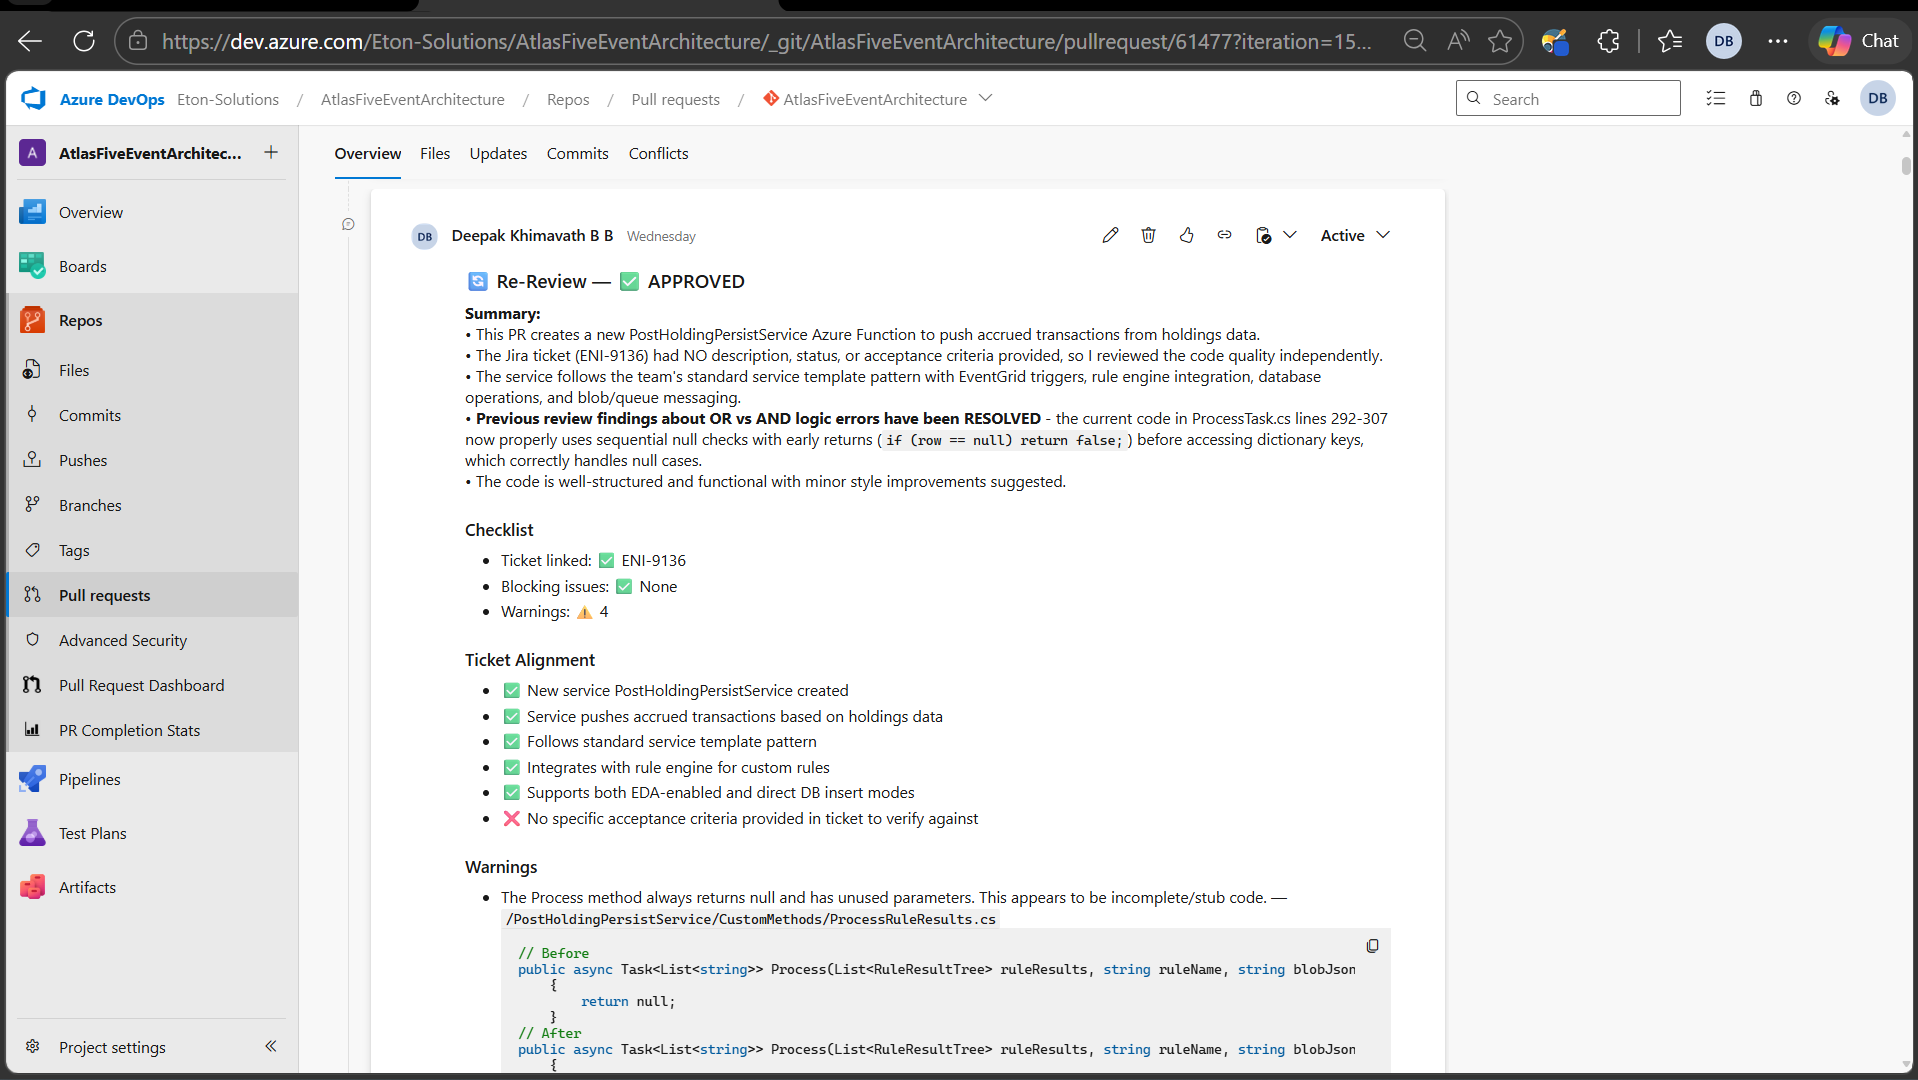
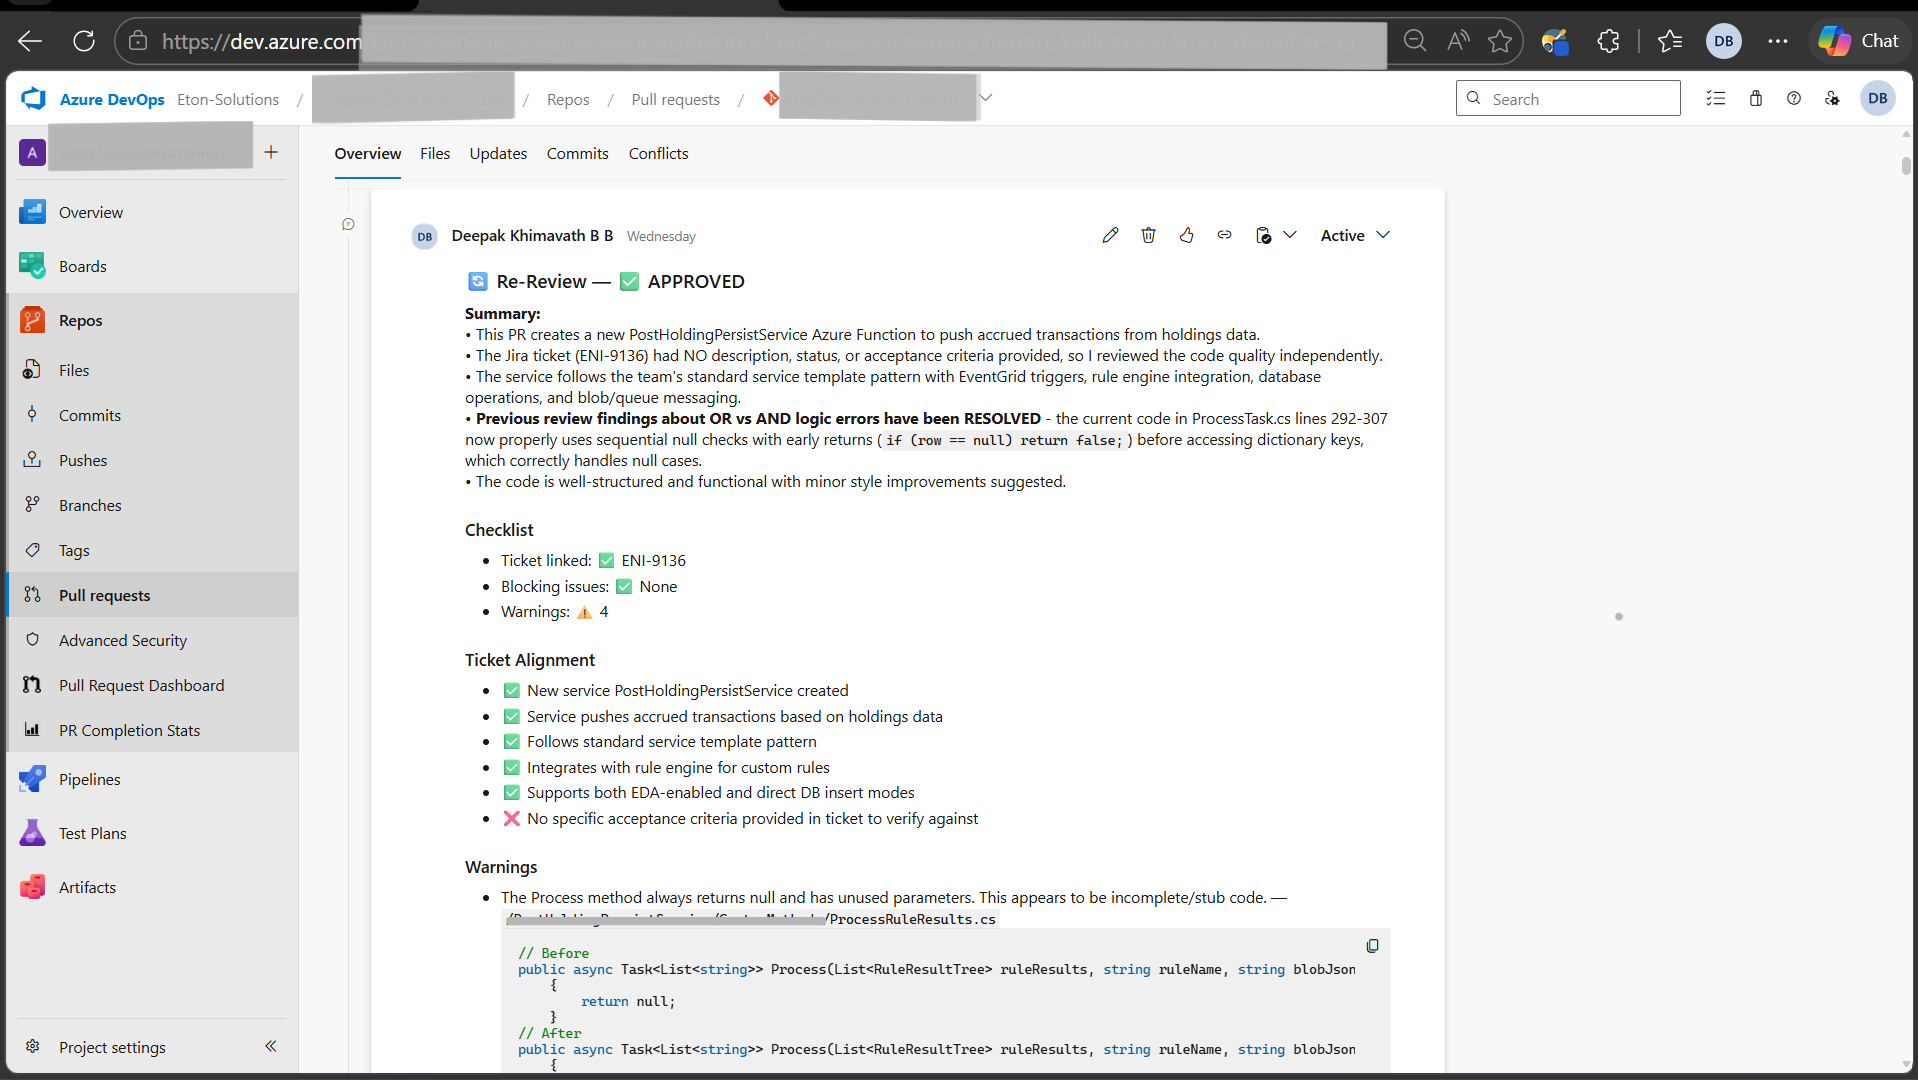
Polish portfolio proof and AI interaction

Changed region(s): [[0.1538, 0.0, 0.7383, 0.1222], [0.0, 0.0917, 0.1538, 0.1833], [0.2769, 0.825, 0.4307, 0.8556]]

diff --git a/index.html b/index.html
@@ -4,6 +4,16 @@
 <meta charset="UTF-8"/>
 <meta name="viewport" content="width=device-width, initial-scale=1.0"/>
 <title>Deepak Khimavath — AI Platform Engineer</title>
+<meta name="description" content="Deepak Khimavath — AI Platform Engineer building production AI developer tooling, agentic systems, and event-driven FinTech infrastructure."/>
+<meta name="theme-color" content="#05080F"/>
+<meta property="og:type" content="website"/>
+<meta property="og:title" content="Deepak Khimavath — AI Platform Engineer"/>
+<meta property="og:description" content="Production AI developer tooling, agentic systems, microservices ownership, and event-driven platform impact."/>
+<meta property="og:image" content="https://i.postimg.cc/qM4sF288/deepakkhimavathh.png"/>
+<meta name="twitter:card" content="summary_large_image"/>
+<meta name="twitter:title" content="Deepak Khimavath — AI Platform Engineer"/>
+<meta name="twitter:description" content="Production AI developer tooling, agentic systems, and event-driven FinTech infrastructure."/>
+<meta name="twitter:image" content="https://i.postimg.cc/qM4sF288/deepakkhimavathh.png"/>
 <link href="https://fonts.googleapis.com/css2?family=Clash+Display:wght@400;500;600;700&family=Instrument+Sans:ital,wght@0,300;0,400;0,500;1,300&family=JetBrains+Mono:wght@300;400;500&display=swap" rel="stylesheet"/>
 <style>
 /* ── DESIGN SYSTEM ────────────────────────────────────────────────── */
@@ -86,6 +96,22 @@ nav.scrolled{padding:14px 64px;}
   transition:background .3s,color .3s!important;
 }
 .nav-cta:hover{background:var(--cyan)!important;color:var(--bg)!important;}
+.magic-ai{
+  position:relative;padding:8px 14px;border-radius:999px;
+  color:var(--cyan)!important;isolation:isolate;overflow:hidden;
+}
+.magic-ai::before{
+  content:'';position:absolute;inset:0;border-radius:inherit;padding:1px;
+  background:conic-gradient(from var(--spin,0deg),transparent 0 18%,var(--cyan),var(--violet),var(--blue),transparent 82% 100%);
+  -webkit-mask:linear-gradient(#000 0 0) content-box,linear-gradient(#000 0 0);
+  -webkit-mask-composite:xor;mask-composite:exclude;
+  animation:magic-spin 3.6s linear infinite;opacity:.85;
+}
+.magic-ai::after{
+  content:'';position:absolute;inset:1px;border-radius:inherit;
+  background:rgba(0,229,255,.045);z-index:-1;
+}
+@keyframes magic-spin{to{--spin:360deg;}}
 .nav-toggle{
   display:none;width:38px;height:38px;border:1px solid var(--border);
   border-radius:6px;background:rgba(13,21,38,.8);color:var(--ink);
@@ -310,6 +336,21 @@ section{padding:110px 64px;position:relative;}
 .ac-big{font-family:var(--font-d);font-weight:700;font-size:2.6rem;line-height:1;background:linear-gradient(135deg,var(--cyan),var(--blue));-webkit-background-clip:text;-webkit-text-fill-color:transparent;background-clip:text;}
 .ac-lbl{color:var(--muted);font-size:.84rem;margin-top:5px;}
 .ac-sub{color:var(--ink);font-size:.78rem;margin-top:3px;font-family:var(--font-m);}
+
+/* ── PROOF ── */
+.proof-band{
+  display:grid;grid-template-columns:repeat(5,minmax(0,1fr));
+  gap:1px;margin:72px auto 0;max-width:1280px;
+  border:1px solid var(--border);background:var(--border2);border-radius:12px;overflow:hidden;
+}
+.proof-item{background:var(--bg3);padding:20px 18px;min-height:116px;}
+.proof-num{
+  font-family:var(--font-d);font-weight:700;font-size:1.8rem;line-height:1;
+  background:linear-gradient(135deg,var(--cyan),var(--blue));
+  -webkit-background-clip:text;-webkit-text-fill-color:transparent;background-clip:text;
+}
+.proof-label{font-family:var(--font-m);font-size:.62rem;color:var(--cyan);text-transform:uppercase;letter-spacing:.1em;margin-top:9px;}
+.proof-text{font-size:.76rem;color:var(--muted);line-height:1.55;margin-top:6px;}
  
 /* ── EXPERIENCE ── */
 #experience{background:var(--bg);}
@@ -416,6 +457,20 @@ section{padding:110px 64px;position:relative;}
 .case-v{font-size:.78rem;line-height:1.55;color:var(--muted);}
 .case-v strong{color:var(--ink);font-weight:500;}
 
+.arch-grid{display:grid;grid-template-columns:repeat(2,minmax(0,1fr));gap:18px;margin-top:64px;}
+.arch-card{
+  background:var(--card);border:1px solid var(--border);border-radius:12px;
+  padding:24px;position:relative;overflow:hidden;
+}
+.arch-title{font-family:var(--font-d);font-weight:600;font-size:1rem;color:var(--ink);margin-bottom:14px;}
+.arch-flow{display:flex;flex-wrap:wrap;gap:8px;align-items:center;}
+.arch-node{
+  padding:7px 10px;border:1px solid rgba(0,229,255,.16);border-radius:6px;
+  background:rgba(0,229,255,.045);font-family:var(--font-m);font-size:.66rem;color:var(--muted);
+}
+.arch-arrow{font-family:var(--font-m);color:var(--cyan);font-size:.72rem;}
+.arch-note{font-size:.78rem;color:var(--muted);line-height:1.65;margin-top:14px;}
+
 /* ── PROJECT MEDIA (featured cards) ── */
 .proj-card.feat .proj-card-inner{
   display:grid;
@@ -440,6 +495,16 @@ section{padding:110px 64px;position:relative;}
     0 0 40px rgba(0,229,255,.06);
   transition:box-shadow .4s,border-color .3s;
   border:1px solid rgba(255,255,255,.06);
+}
+.proj-media-frame::before{
+  content:'';position:absolute;inset:0;border-radius:inherit;padding:1px;z-index:4;
+  background:conic-gradient(from var(--spin,0deg),transparent 0 22%,rgba(0,229,255,.9),rgba(129,140,248,.75),rgba(59,130,246,.8),transparent 78% 100%);
+  -webkit-mask:linear-gradient(#000 0 0) content-box,linear-gradient(#000 0 0);
+  -webkit-mask-composite:xor;mask-composite:exclude;
+  opacity:0;pointer-events:none;transition:opacity .25s ease;
+}
+.proj-media-frame:hover::before,.proj-media-frame:focus-within::before{
+  opacity:.9;animation:magic-spin 4.8s linear infinite;
 }
 .proj-media-frame.has-portrait{min-height:700px;}
 .proj-media-frame.has-portrait .proj-media-dots{bottom:14px;}
@@ -769,7 +834,15 @@ footer{
   .proj-card.feat{grid-column:span 1;}
   .sk-grid{grid-template-columns:1fr;}
   .contact-grid{grid-template-columns:1fr;}
+  .proof-band{grid-template-columns:1fr 1fr;}
   footer{flex-direction:column;gap:10px;text-align:center;}
+}
+@media(max-width:600px){.proof-band{grid-template-columns:1fr;}}
+@media(max-width:960px){.arch-grid{grid-template-columns:1fr;}}
+@media(prefers-reduced-motion:reduce){
+  *,*::before,*::after{animation-duration:.01ms!important;animation-iteration-count:1!important;transition-duration:.01ms!important;scroll-behavior:auto!important;}
+  body{cursor:auto;}
+  .cursor,.cursor-ring{display:none;}
 }
 
 /* ── FLOATING CHAT WIDGET ── */
@@ -973,7 +1046,7 @@ footer{
     <li><a href="#experience">Experience</a></li>
     <li><a href="#projects">Projects</a></li>
     <li><a href="#skills">Skills</a></li>
-    <li><a href="javascript:void(0)" onclick="toggleChat()">Ask AI</a></li>
+    <li><a href="javascript:void(0)" onclick="toggleChat()" class="magic-ai">Ask AI</a></li>
     <li><a href="#contact" class="nav-cta">Contact</a></li>
   </ul>
 </nav>
@@ -1188,6 +1261,24 @@ footer{
     </div>
   </div>
 </section>
+
+<!-- PROOF -->
+<section id="proof">
+  <div class="sec-inner">
+    <div class="rv">
+      <p class="sec-chip">Proof signals</p>
+      <h2 class="sec-h">Delivered work, not demos.</h2>
+      <p class="sec-sub">Sanitized, recruiter-safe signals from production engineering and internal AI platform work.</p>
+    </div>
+    <div class="proof-band rv d1">
+      <div class="proof-item"><div class="proof-num">150+</div><div class="proof-label">PRs Reviewed</div><div class="proof-text">Production Azure DevOps review agent in org-wide use.</div></div>
+      <div class="proof-item"><div class="proof-num">20+</div><div class="proof-label">Internal Users</div><div class="proof-text">Engineering/product users on Eton Dev AI workflows.</div></div>
+      <div class="proof-item"><div class="proof-num">98%</div><div class="proof-label">Latency Reduced</div><div class="proof-text">EDA bottleneck reduced from 15-20 hours to under 15 minutes.</div></div>
+      <div class="proof-item"><div class="proof-num">3</div><div class="proof-label">Owned Services</div><div class="proof-text">Production financial microservices owned end-to-end.</div></div>
+      <div class="proof-item"><div class="proof-num">11</div><div class="proof-label">Indexed Services</div><div class="proof-text">Active R&D code intelligence pipeline over service context.</div></div>
+    </div>
+  </div>
+</section>
  
 <!-- PROJECTS -->
 <section id="projects">
@@ -1222,8 +1313,8 @@ footer{
           <div class="proj-card-media">
             <div class="proj-media-frame">
               <!-- 🔧 PR Review Agent screenshots -->
-              <img class="proj-media-img active" src="assets/images/pr-review1.png" alt="PR Review Agent dashboard"/>
-              <img class="proj-media-img" src="assets/images/pr-review2.png" alt="PR Review Agent review output"/>
+              <img class="proj-media-img active" src="assets/images/pr-review1.png" alt="PR Review Agent dashboard" loading="lazy"/>
+              <img class="proj-media-img" src="assets/images/pr-review2.png" alt="PR Review Agent review output" loading="lazy"/>
               <div class="proj-media-placeholder" id="prPlaceholder">
                 <svg width="48" height="48" viewBox="0 0 48 48" fill="none"><rect x="8" y="6" width="32" height="36" rx="4" stroke="#3A4A60" stroke-width="2"/><path d="M16 18h16M16 24h12M16 30h8" stroke="#3A4A60" stroke-width="2" stroke-linecap="round"/></svg>
                 <span>Add PR Review screenshots</span>
@@ -1262,10 +1353,10 @@ footer{
           <div class="proj-card-media">
             <div class="proj-media-frame">
               <!-- 🔧 Eton Dev VSIX screenshots -->
-              <img class="proj-media-img active" src="assets/images/vs-extension.png" alt="Eton Dev VS Extension main view"/>
-              <img class="proj-media-img" src="assets/images/visualstudio_1st.png" alt="Eton Dev Visual Studio integration"/>
-              <img class="proj-media-img" src="assets/images/orbit.png" alt="Eton Dev Orbit feature"/>
-              <img class="proj-media-img" src="assets/images/orbit_investigation.png" alt="Eton Dev investigation tool"/>
+              <img class="proj-media-img active" src="assets/images/vs-extension.png" alt="Eton Dev VS Extension main view" loading="lazy"/>
+              <img class="proj-media-img" src="assets/images/visualstudio_1st.png" alt="Eton Dev Visual Studio integration" loading="lazy"/>
+              <img class="proj-media-img" src="assets/images/orbit.png" alt="Eton Dev Orbit feature" loading="lazy"/>
+              <img class="proj-media-img" src="assets/images/orbit_investigation.png" alt="Eton Dev investigation tool" loading="lazy"/>
               <div class="proj-media-placeholder" id="etonPlaceholder">
                 <svg width="48" height="48" viewBox="0 0 48 48" fill="none"><rect x="6" y="6" width="36" height="36" rx="4" stroke="#3A4A60" stroke-width="2"/><path d="M16 16l8 8-8 8" stroke="#3A4A60" stroke-width="2" stroke-linecap="round" stroke-linejoin="round"/></svg>
                 <span>Add VS Extension screenshots</span>
@@ -1307,10 +1398,10 @@ footer{
           <div class="proj-card-media">
             <div class="proj-media-frame">
               <!-- 🔧 Eton ARC 6-Agent pipeline screenshots -->
-              <img class="proj-media-img active" src="assets/images/6model-1.png" alt="Eton ARC architecture overview"/>
-              <img class="proj-media-img" src="assets/images/6model-2.png" alt="Eton ARC agent workflow"/>
-              <img class="proj-media-img" src="assets/images/6model-3.png" alt="Eton ARC pipeline details"/>
-              <img class="proj-media-img" src="assets/images/6model-4.png" alt="Eton ARC system diagram"/>
+              <img class="proj-media-img active" src="assets/images/6model-1.png" alt="Eton ARC architecture overview" loading="lazy"/>
+              <img class="proj-media-img" src="assets/images/6model-2.png" alt="Eton ARC agent workflow" loading="lazy"/>
+              <img class="proj-media-img" src="assets/images/6model-3.png" alt="Eton ARC pipeline details" loading="lazy"/>
+              <img class="proj-media-img" src="assets/images/6model-4.png" alt="Eton ARC system diagram" loading="lazy"/>
               <div class="proj-media-placeholder" id="arcPlaceholder">
                 <svg width="48" height="48" viewBox="0 0 48 48" fill="none"><circle cx="24" cy="16" r="6" stroke="#3A4A60" stroke-width="2"/><circle cx="14" cy="32" r="6" stroke="#3A4A60" stroke-width="2"/><circle cx="34" cy="32" r="6" stroke="#3A4A60" stroke-width="2"/><path d="M24 22l-6 8M24 22l6 8" stroke="#3A4A60" stroke-width="2" stroke-linecap="round"/></svg>
                 <span>Add pipeline architecture images</span>
@@ -1371,6 +1462,60 @@ footer{
         </div>
       </div>
  
+    </div>
+  </div>
+</section>
+
+<!-- ARCHITECTURE PATTERNS -->
+<section id="architecture">
+  <div class="sec-inner">
+    <div class="rv">
+      <p class="sec-chip">How I think</p>
+      <h2 class="sec-h">Sanitized architecture patterns</h2>
+      <p class="sec-sub">High-level patterns only. Company internals, client data, service names, repos, endpoints, and proprietary workflows are intentionally omitted.</p>
+    </div>
+    <div class="arch-grid">
+      <div class="arch-card rv d1">
+        <div class="arch-title">Async AI Review Pipeline</div>
+        <div class="arch-flow">
+          <span class="arch-node">Webhook</span><span class="arch-arrow">→</span>
+          <span class="arch-node">Queue</span><span class="arch-arrow">→</span>
+          <span class="arch-node">LLM Review</span><span class="arch-arrow">→</span>
+          <span class="arch-node">PR Feedback</span>
+        </div>
+        <p class="arch-note">Designed to acknowledge source-control events quickly while long-running AI work happens safely in the background.</p>
+      </div>
+      <div class="arch-card rv d2">
+        <div class="arch-title">IDE-Native AI Tooling</div>
+        <div class="arch-flow">
+          <span class="arch-node">VSIX</span><span class="arch-arrow">→</span>
+          <span class="arch-node">Local Backend</span><span class="arch-arrow">→</span>
+          <span class="arch-node">Provider Router</span><span class="arch-arrow">→</span>
+          <span class="arch-node">DevOps APIs</span>
+        </div>
+        <p class="arch-note">Keeps review, debugging, AI chat, auto-fix, and PR workflows inside the developer's existing environment.</p>
+      </div>
+      <div class="arch-card rv d3">
+        <div class="arch-title">Ticket-To-Code Agent Flow</div>
+        <div class="arch-flow">
+          <span class="arch-node">Ticket</span><span class="arch-arrow">→</span>
+          <span class="arch-node">Discovery</span><span class="arch-arrow">→</span>
+          <span class="arch-node">Specialists</span><span class="arch-arrow">→</span>
+          <span class="arch-node">Review Gate</span><span class="arch-arrow">→</span>
+          <span class="arch-node">Execution Plan</span>
+        </div>
+        <p class="arch-note">Uses deterministic code search first, then retrieval and agent review to keep plans grounded in actual source context.</p>
+      </div>
+      <div class="arch-card rv d4">
+        <div class="arch-title">Legacy Flow Modernization</div>
+        <div class="arch-flow">
+          <span class="arch-node">Batch/SP Flow</span><span class="arch-arrow">→</span>
+          <span class="arch-node">Events</span><span class="arch-arrow">→</span>
+          <span class="arch-node">Idempotent Services</span><span class="arch-arrow">→</span>
+          <span class="arch-node">Observable Delivery</span>
+        </div>
+        <p class="arch-note">Moves long-running financial processing toward retry-safe, traceable, service-owned event flows.</p>
+      </div>
     </div>
   </div>
 </section>
@@ -1467,9 +1612,10 @@ footer{
     </div>
   </div>
   <div class="chat-modal-sugs" id="chatSugs">
-    <span class="sug" onclick="sendSug(this)">What's the architecture behind Eton Dev?</span>
-    <span class="sug" onclick="sendSug(this)">How does the 6-agent pipeline work?</span>
-    <span class="sug" onclick="sendSug(this)">What was the 98% latency fix?</span>
+    <span class="sug" onclick="sendSug(this)">Is Deepak a fit for AI platform roles?</span>
+    <span class="sug" onclick="sendSug(this)">What production systems has he shipped?</span>
+    <span class="sug" onclick="sendSug(this)">What should I ask him in an interview?</span>
+    <span class="sug" onclick="sendSug(this)">Explain the 98% latency fix</span>
     <span class="sug" onclick="sendSug(this)">Deepak's GitHub & LinkedIn →</span>
     <span class="sug" onclick="sendContactForm()">📬 Send a message to Deepak</span>
   </div>
@@ -1491,6 +1637,10 @@ footer{
         <h3 class="contact-h">Open to <span>great<br>opportunities</span></h3>
         <p class="contact-desc">AI platform roles, developer tooling, agentic systems, backend infrastructure — if it's technically challenging and impactful, I'm interested. Open to remote and relocation.</p>
         <div class="contact-items">
+          <a href="assets/Deepak_Khimavath_Resume.pdf" target="_blank" rel="noopener" class="contact-item">
+            <div class="ci-icon">📄</div>
+            <div><div class="ci-lbl">Resume</div><div class="ci-val">Open PDF</div></div>
+          </a>
           <a href="mailto:khimavathdeepak@gmail.com" class="contact-item">
             <div class="ci-icon">✉</div>
             <div><div class="ci-lbl">Email</div><div class="ci-val">khimavathdeepak@gmail.com</div></div>
